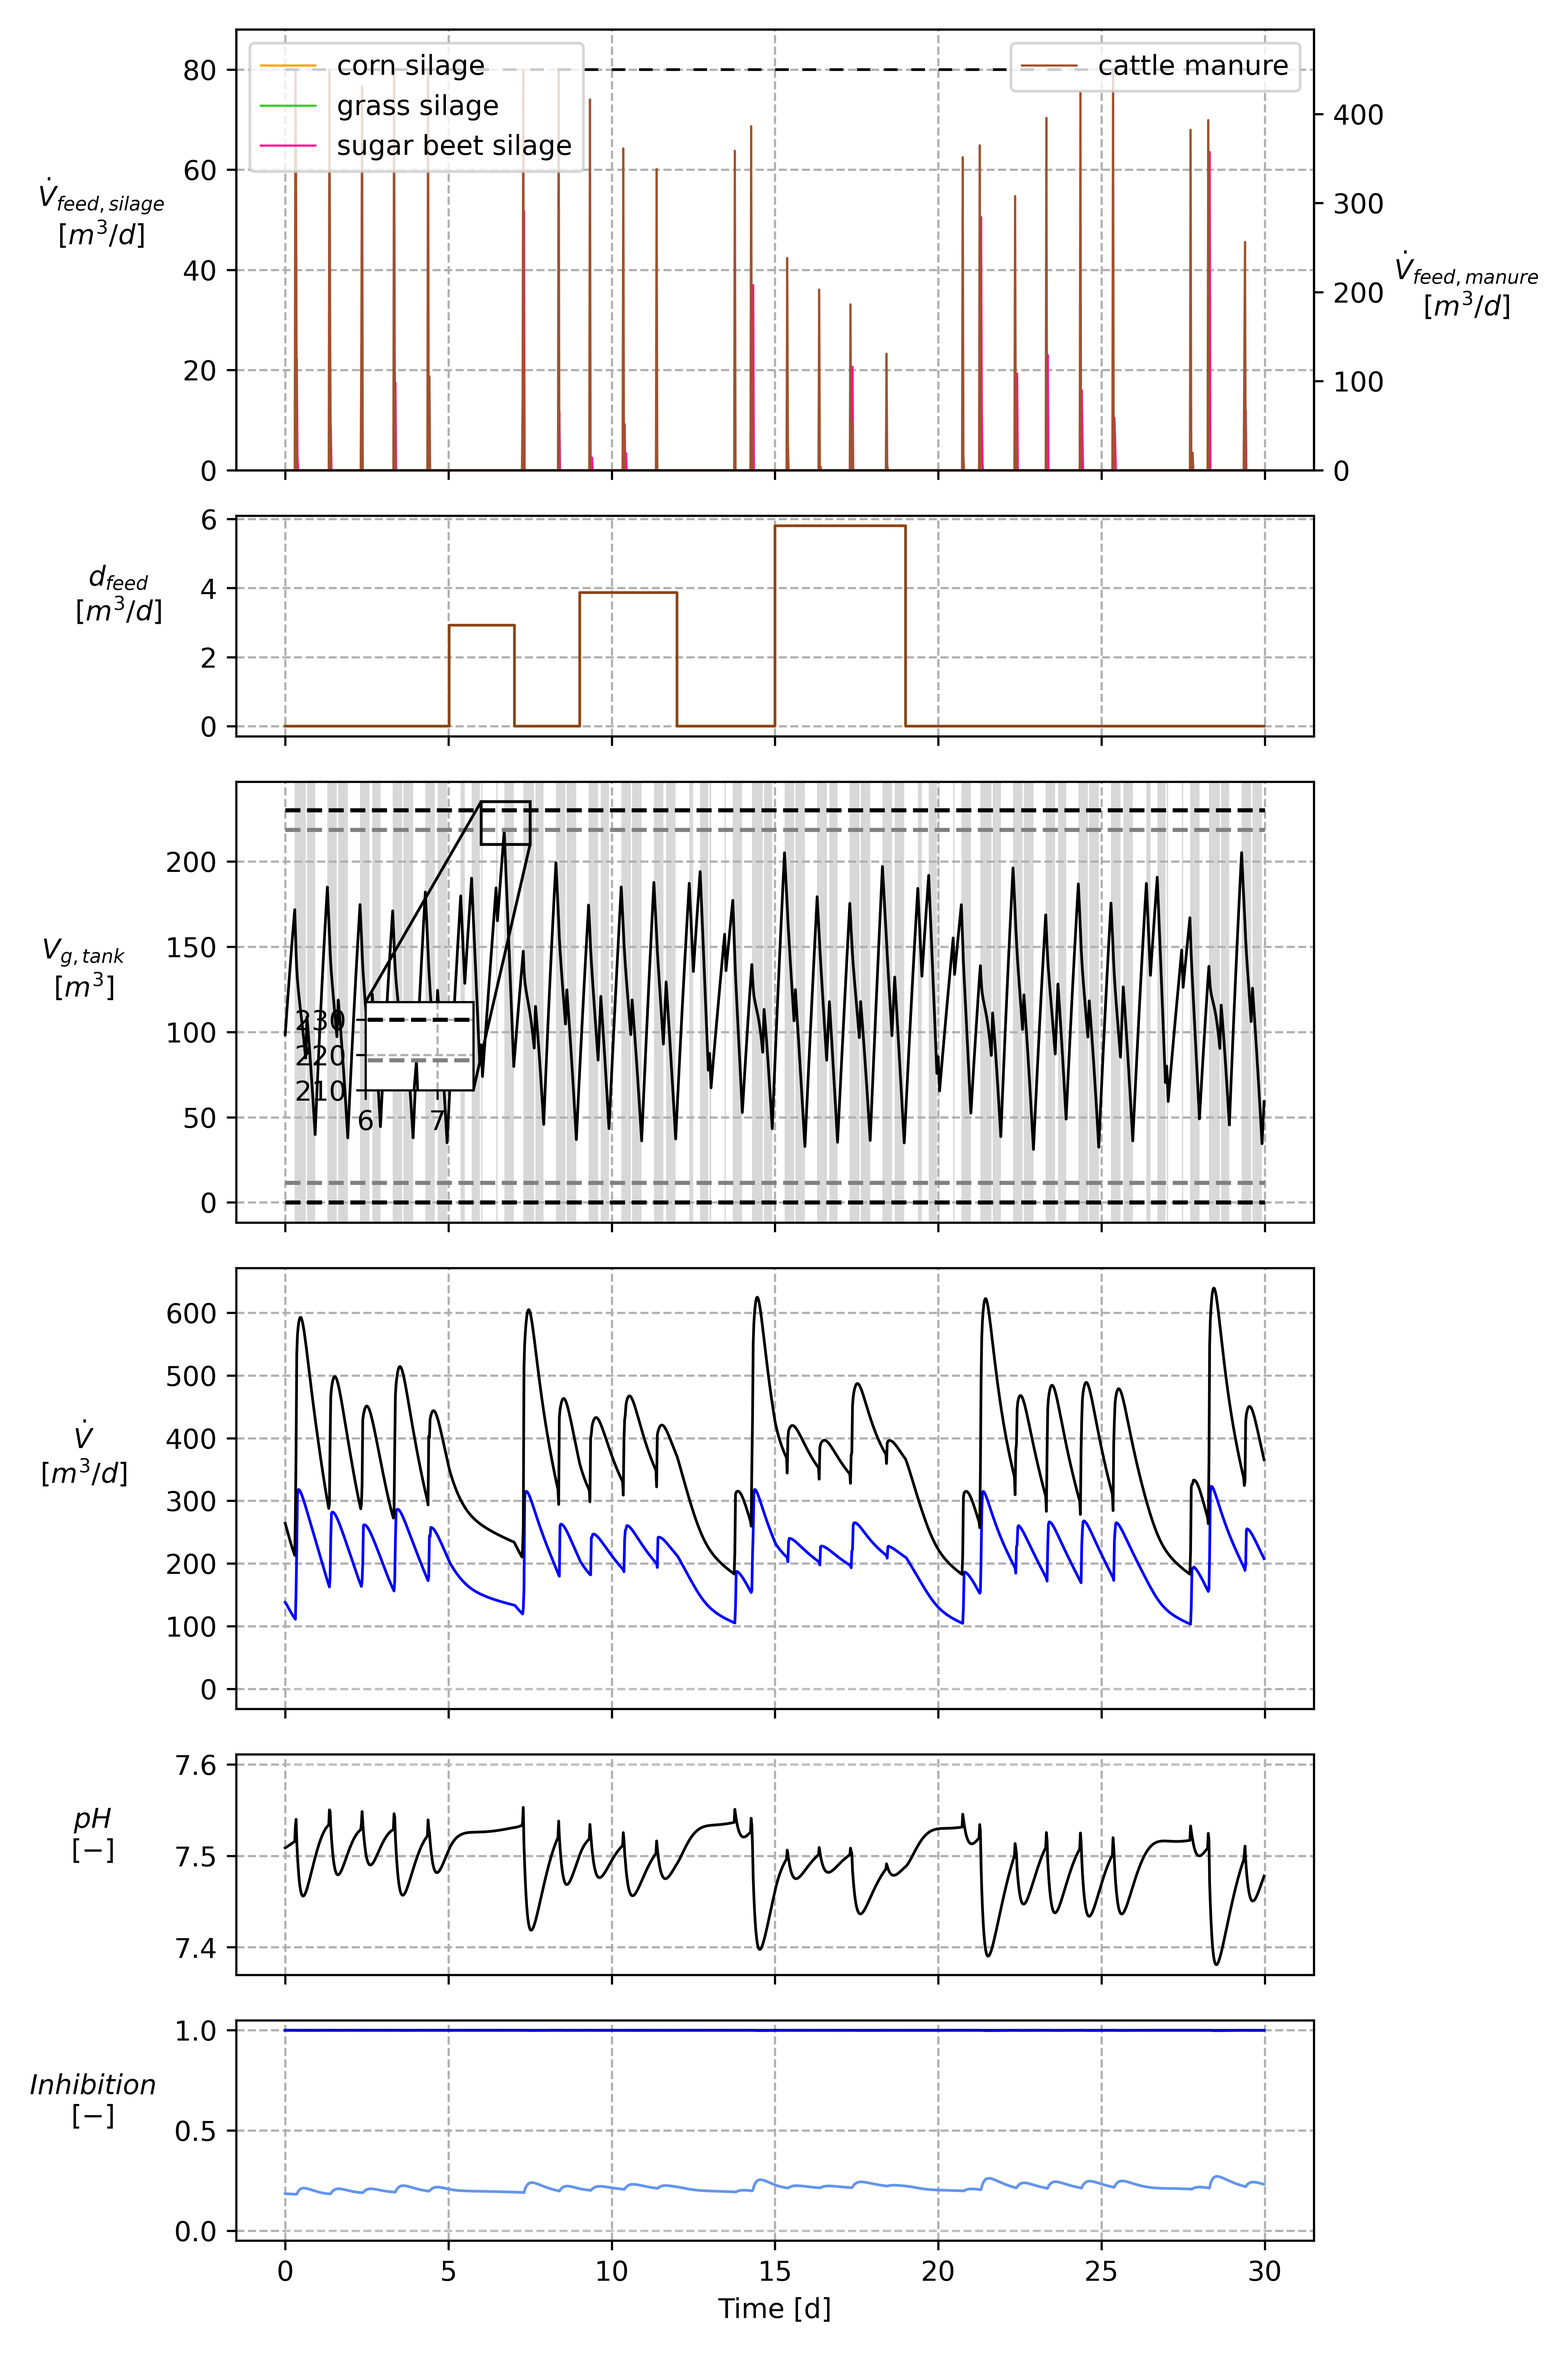
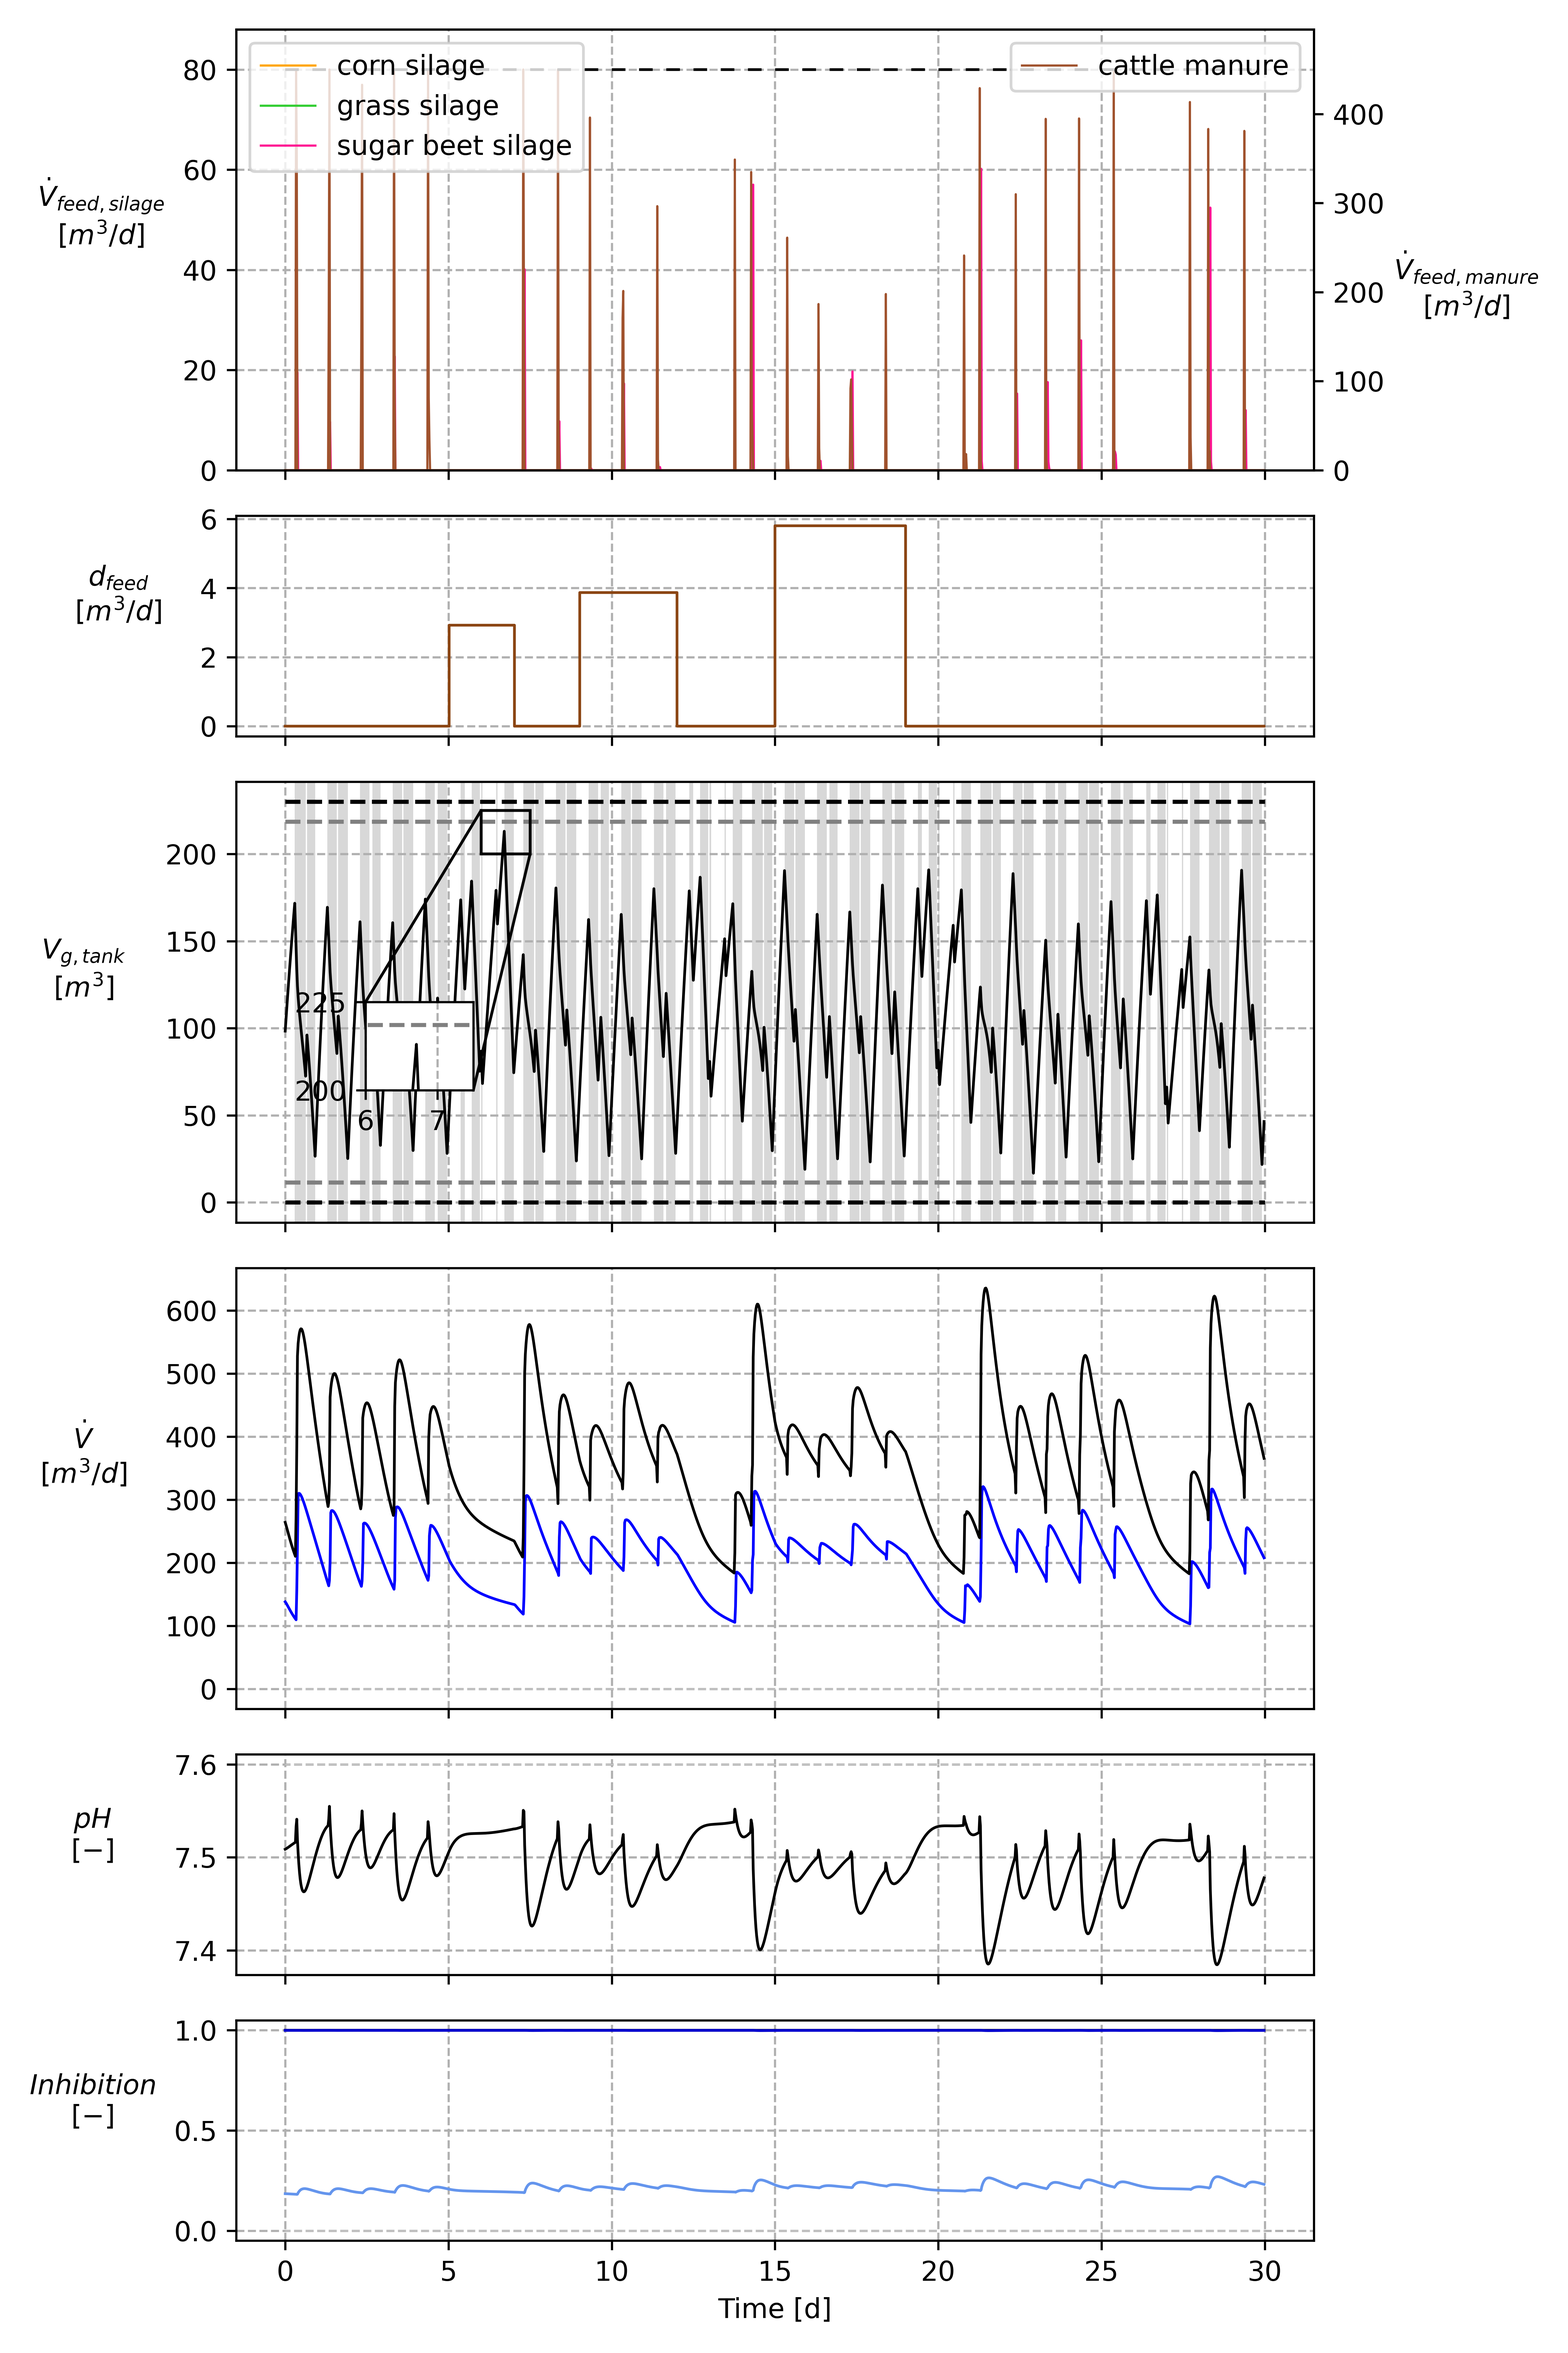
update Scenario 2c and plot

diff --git a/ad_meal_prep_control/scenarios/scenario_2c.py b/ad_meal_prep_control/scenarios/scenario_2c.py
@@ -12,8 +12,9 @@ import random
 
 np.random.seed(seed=42)
 
-lterm = ("(0.5*(model.x['x_19'] + model.x['x_20'] + model.aux['V_H2O']/V_GAS_STORAGE_MAX - 0.4)**2 + "
-         "+ 50.*(model.x['x_19'] + model.x['x_20'] + model.aux['V_H2O']/V_GAS_STORAGE_MAX - 0.4)**4)"
+fill_level_setpoint = 0.35
+lterm = (f"(0.5*(model.x['x_19'] + model.x['x_20'] + model.aux['V_H2O']/V_GAS_STORAGE_MAX - {fill_level_setpoint})**2 +"
+         f"+ 50*(model.x['x_19'] + model.x['x_20'] + model.aux['V_H2O']/V_GAS_STORAGE_MAX - {fill_level_setpoint})**4)"
          )
 
 mterm = "model.tvp['dummy_tvp']"

diff --git a/ad_meal_prep_control/plot_generation/plot_scenario_2c.py b/ad_meal_prep_control/plot_generation/plot_scenario_2c.py
@@ -139,7 +139,7 @@ post_processing.plot(
         {
             "plot_idx": 2,
             "days": (6, 7.5),
-            "ylimit": (210, 235),
+            "ylimit": (200, 225),
             "inset_axis_specs": (0.12, 0.3, 0.1, 0.2),
         },
     ],
